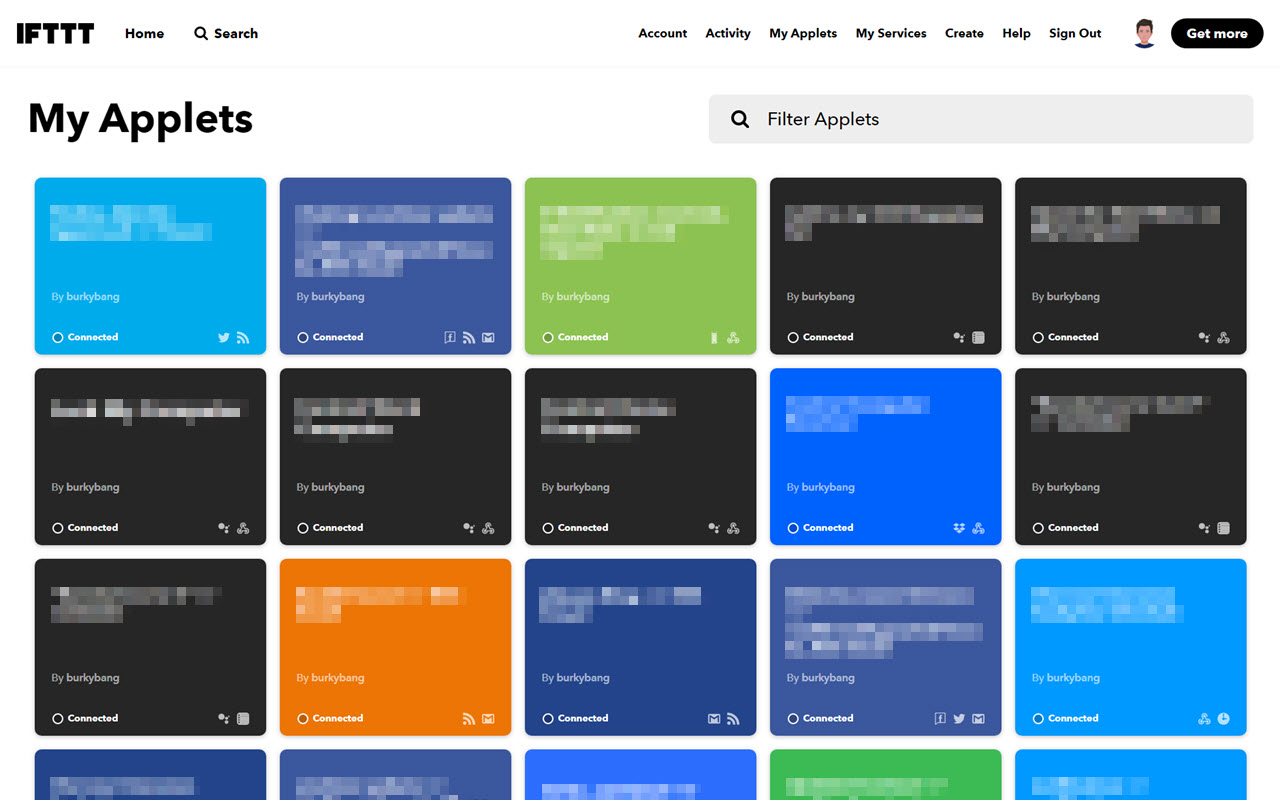
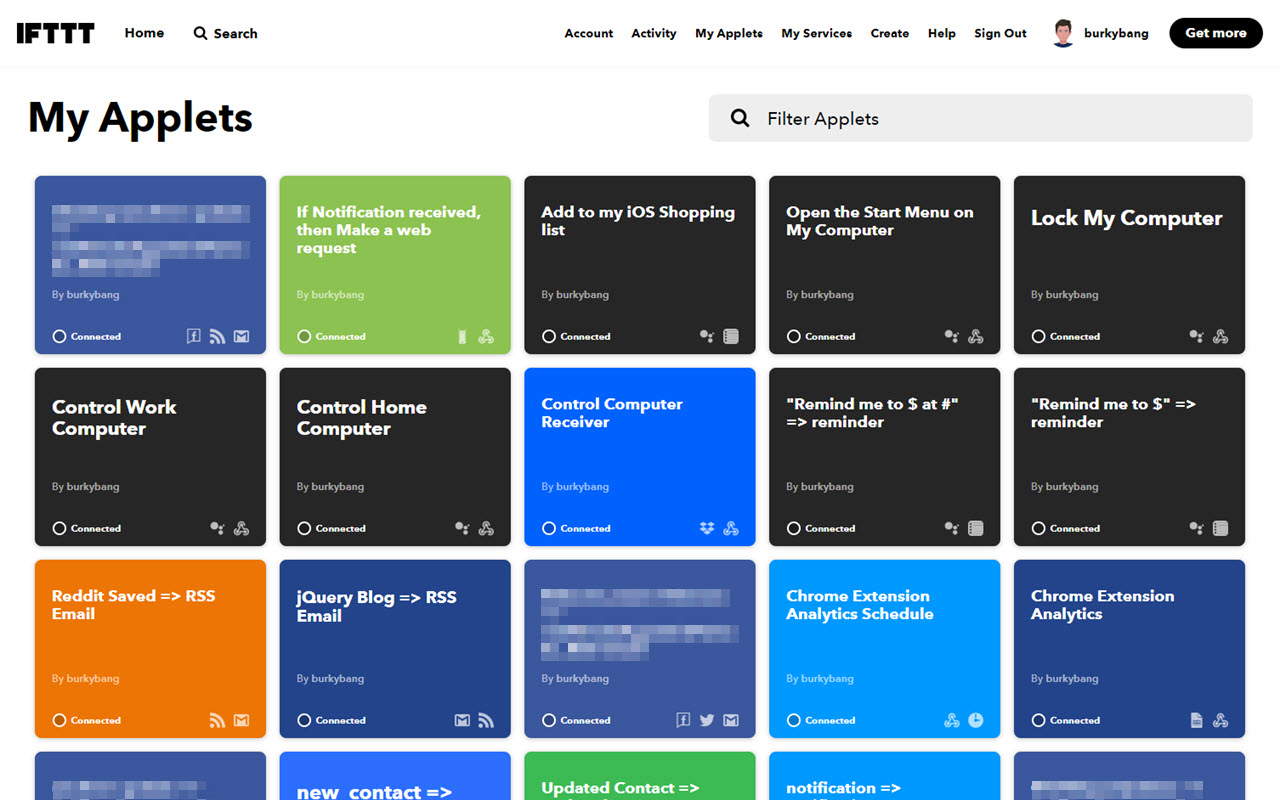
Updated ReadMe, Updated and added screenshots

diff --git a/README.md b/README.md
@@ -14,16 +14,62 @@ This project is open source. If you'd like to contribute, please do so. I would 
 - [@burkybang](https://twitter.com/burkybang)
 - [u/burkybang](https://reddit.com/u/burkybang)
 
-## Screenshots
+## Modifications
+
+### Overall
+- Everything is smaller
+___
+
+### Header Bar
+#### Before
+![Header Bar (Before)](Screenshots/HeaderBar_Before.jpg "Header Bar (Before)")
+
+#### After
+- Navigation menu is always visible and expanded horizontally across header
+- All menu items have proper casing
+
+![Header Bar (After)](Screenshots/HeaderBar.jpg "Header Bar (After)")
+___
 
 ### Home Page
-![Home Page](Screenshots/HomePage.jpg "Home Page")
+#### Before
+![Home Page (Before)](Screenshots/HomePage_Before.jpg "Home Page (Before)")
+
+#### After
+- Three column layout
+
+![Home Page (After)](Screenshots/HomePage.jpg "Home Page (After)")
+___
 
 ### My Applets
-![My Applets](Screenshots/MyApplets.jpg "My Applets")
+#### Before
+![My Applets (Before)](Screenshots/MyApplets_Before.jpg "My Applets (Before)")
+
+#### After
+- Dynamic number of columns depending on screen width
+- "My Applets" heading at left and "Filter Applets" field at right
+
+![My Applets (After)](Screenshots/MyApplets.jpg "My Applets (After)")
+___
 
 ### My Services
-![My Services](Screenshots/MyServices.jpg "My Services")
+#### Before
+![My Services (Before)](Screenshots/MyServices_Before.jpg "My Services (Before)")
+
+#### After
+- Capitalized "Services" in heading
+- Four column layout
+- Service items stylized similar to applet items and category items
+
+![My Services (After)](Screenshots/MyServices.jpg "My Services (After)")
+___
 
 ### Create Applet
-![Create Applet](Screenshots/CreateApplet.jpg "Create Applet")
+#### Before
+![Create Applet (Before)](Screenshots/CreateApplet_Before.jpg "Create Applet (Before)")
+
+#### After
+- Fields in two column layout
+- Header bar matches color of service
+
+![Create Applet (After)](Screenshots/CreateApplet.jpg "Create Applet (After)")
